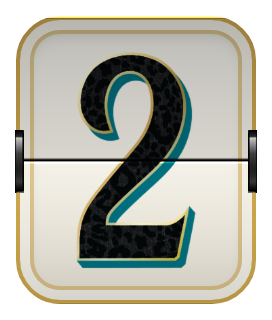
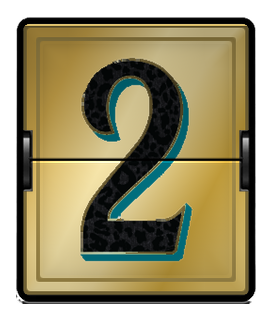
Standings (BBP): seed tiles gold 1-2 / alabaster 3-6 / teal 7-12 (squared, with buffer), byte-for-byte
Claude-Session: https://claude.ai/code/session_01WQLdFQZ8MkKnuqWv7ZmMze

diff --git a/CLAUDE.md b/CLAUDE.md
@@ -60,7 +60,7 @@ Two sister sites built by the same pipeline. This file is identical in both repo
 
 - **Board and tiers**: one card (`#list.board`); each tier is a plain `section.tcard` (built in `draw()`). Rows run edge to edge in alternating shades (first row of each tier lighter, `rgba(238,240,244,.055)`). Each tier header is a band tinted in the tier colour (19%), from the tear line (dotted perforation with a semicircle notch bitten out of each edge; none above Bye) down to just under the tier name, closed by a 2px rule in the tier colour; name / seeds / Line in lighter tints of it. Panel shadow is firm down both sides and along the bottom. Dots (rank dots and last-5) have a dark outer ring (reference: Sleeper-style ringed dots); whole-pixel sizes, `space-between`, ring sized so neighbours never touch. Nicklaus rejected a coloured bar along the card top (looks generic). The class `.tg` is taken (toggle groups).
 - **Desktop (>=1100px)**: one team per row. Left: rank, logo, name, Opp/All-play/Luck, PF, PA, record column (`102px 270px 84px 78px`); right column (after a thin divider): Tot Eff, Dropped pts + Season sim, season chart, stacked by `nrdFit` (all three share one grid cell spanning to a final `1fr` row, so the right stack never stretches the left rows). The left side is identical in Dumb and Nerd.
-- Row: rank numeral art (BBP: Jaguars kit tiers from `rank_tiles_kit_tiers.zip`, no_buffer/rounded, served byte-for-byte from `ranknum/r1-12.webp` (do not crop or re-encode): cream 1-2, teal 3-6, black 7-12, shadow baked in; one rule `.rni{height:var(--rt)}` with `--rt:44px`, no per-tier size/filter/opacity; fixed 52px rank column (`--rks`), tile centred; `alt="N"` + `aria-label="Rank N"`; Team Hub uses the same tiles at 44px) + logo 50px (44 ≤380; BBP shadow: 1px ring + identical circle offset 2px/2px + blur at same offset) + name block + right column: W-L record (35.1px; 29.7px for 4-digit records), then one row under it (`.l5r`, pulled up into the record's descender space, 3px below its baseline): streak tile (height = the record's cap at 26px, 22px at <=380) left of the last-5 dots; then Could have / Breakdown (Dumb and Nerd), label cap top level with the OPP RK line (`rrFit`: first stat line starting 4px clear of the streak row). Dots: the dark ring is the dot's own border (box-sizing border-box), never a box-shadow ring (snapped separately, drifts off-centre). Games back and the Leader label were removed 2026-11-03.
+- Row: rank numeral art (BBP: `rank_tiles_gold_alabaster_teal.zip`, with_buffer/squared, served byte-for-byte from `ranknum/r1-12.webp` (do not crop or re-encode): brushed gold 1-2, alabaster 3-6, teal 7-12, shadow baked in; one rule `.rni{height:var(--rt)}` with `--rt:44px`, no per-tier size/filter/opacity; fixed 52px rank column (`--rks`), tile centred; `alt="N"` + `aria-label="Rank N"`; Team Hub uses the same tiles at 44px) + logo 50px (44 ≤380; BBP shadow: 1px ring + identical circle offset 2px/2px + blur at same offset) + name block + right column: W-L record (35.1px; 29.7px for 4-digit records), then one row under it (`.l5r`, pulled up into the record's descender space, 3px below its baseline): streak tile (height = the record's cap at 26px, 22px at <=380) left of the last-5 dots; then Could have / Breakdown (Dumb and Nerd), label cap top level with the OPP RK line (`rrFit`: first stat line starting 4px clear of the streak row). Dots: the dark ring is the dot's own border (box-sizing border-box), never a box-shadow ring (snapped separately, drifts off-centre). Games back and the Leader label were removed 2026-11-03.
 - Name block: name (cap top level with logo top) + ▲/▼ change; under it the **FAAB tile** (raised, same shadow depth as the logo; "FAAB" label to its right; tap opens The Wire). YILM: manager nickname under the FAAB line.
 - FAAB data: `pull.mjs faab` → `pull_faab.json` (BBP; run in weekly and live), `season_replay.py` writes it for YILM from the capture; `rebuild.py` emits `FAABB, FAABL, FAABR, FAAB` (current season only); the page re-reads Sleeper rosters on load (`waiver_budget − waiver_budget_used`).
 - Stat lines: Opp rk / All-play / Luck (+ grey `n.nn xW` = all-play win rate × games; luck = wins − xW). PF and PA alabaster with grey `/wk`; dots green only (no gold for #1; the tile shows 1 in gold).
